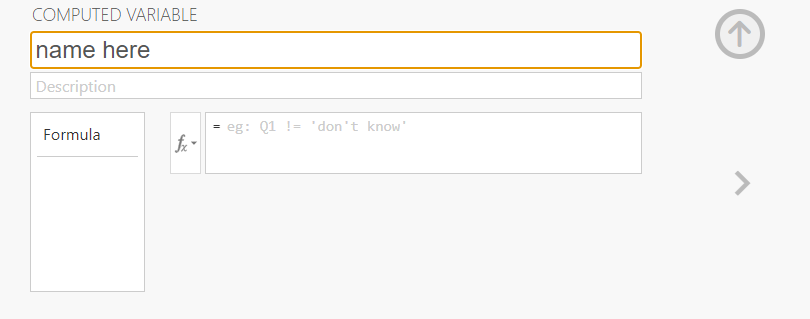
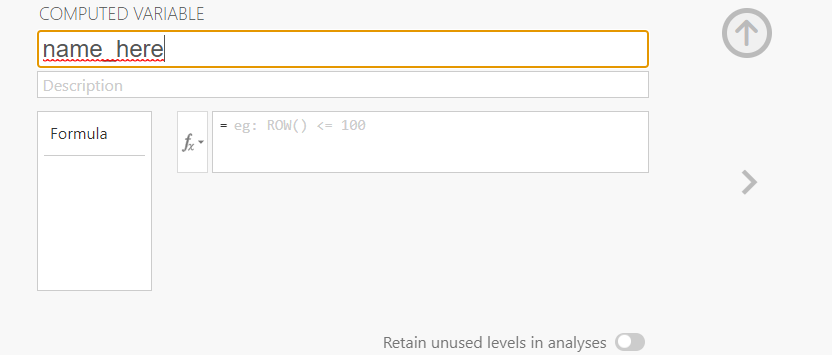
Update Module 6-7 Jamovi screenshots and Self-Check copy.
Wire CI and Compute images into Learn/Self-Check, fix Module 7 recognition image paths, and rewrite vague Module 7 output-interpretation prompts into concrete scenarios.

diff --git a/src/data/softwareLessons_module6_unified.js b/src/data/softwareLessons_module6_unified.js
@@ -1,4 +1,4 @@
-// Module 6: Probability and Sampling — Unified Jamovi lesson
+// Module 6: Probability and Sampling - Unified Jamovi lesson
 // Learn (I do) → Practice + Self-Check (We do) → Apply (You do)
 
 export const module6UnifiedLessons = [
@@ -76,14 +76,14 @@ export const module6UnifiedLessons = [
                     step: 3,
                     title: 'Name the z-score variable',
                     description:
-                      'Name the new variable (e.g. <strong>z_bmi</strong>). Check the <strong>exact casing</strong> of your column — the Tools file uses lowercase <strong>bmi</strong>.',
+                      'Name the new variable (e.g. <strong>z_bmi</strong>). Check the <strong>exact casing</strong> of your column - the Tools file uses lowercase <strong>bmi</strong>.',
                     image: '/images/lessons/jamovi/jamovi-compute-name.png'
                   },
                   {
                     step: 4,
                     title: 'Enter the z formula',
                     description:
-                      'In the formula box type: <strong>(bmi − 25) / 5</strong>. This standardizes each BMI against a fixed reference. Click away or press Enter so the new column fills.',
+                      'In the formula box type: <strong>(bmi − 25) / 5</strong>. This standardizes each BMI against a fixed reference. Click away or press Enter so the new column fills. <strong>Population vs sample:</strong> Here we use a fixed reference (e.g. 25 and 5) for teaching. You can also compute z with the <em>sample</em> mean and SD from Descriptives - same idea, different numbers.',
                     image: '/images/lessons/jamovi/jamovi-compute-formula.png'
                   },
                   {
@@ -93,12 +93,6 @@ export const module6UnifiedLessons = [
                       'A z of <strong>2</strong> means 2 SDs above the reference mean. A negative z means below the reference. Values with |z| &gt; 2 are unusual under the empirical rule for a normal distribution.'
                   }
                 ]
-              },
-              {
-                type: 'callout',
-                style: 'tip',
-                content:
-                  '<strong>Population vs sample:</strong> Here we use a fixed reference (e.g. 25 and 5) for teaching. You can also compute z with the <em>sample</em> mean and SD from Descriptives — same idea, different numbers.'
               }
             ]
           },
@@ -115,7 +109,7 @@ export const module6UnifiedLessons = [
               {
                 type: 'text',
                 content:
-                  'A <strong>confidence interval (CI)</strong> for the mean is a range of plausible values for the population mean. <strong>Dataset:</strong> keep <strong>bmi_and_exercise.csv</strong> open from Tools. In Jamovi you request the CI inside <strong>Descriptives</strong> under Statistics — not as a separate menu.'
+                  'A <strong>confidence interval (CI)</strong> for the mean is a range of plausible values for the population mean. <strong>Dataset:</strong> keep <strong>bmi_and_exercise.csv</strong> open from Tools. In Jamovi you request the CI inside <strong>Descriptives</strong> under Statistics, not as a separate menu.'
               },
               {
                 type: 'definition_list',
@@ -124,7 +118,7 @@ export const module6UnifiedLessons = [
                     term: '95% CI',
                     icon: 'CI',
                     definition:
-                      'The procedure that produces intervals that capture the true mean about 95% of the time across many repeated samples — not “95% probability this one interval contains the mean.”',
+                      'The procedure that produces intervals that capture the true mean about 95% of the time across many repeated samples, not “95% probability this one interval contains the mean.”',
                     color: '#3b82f6'
                   },
                   {
@@ -149,20 +143,21 @@ export const module6UnifiedLessons = [
                     step: 2,
                     title: 'Request the confidence interval',
                     description:
-                      'Open the <strong>Statistics</strong> section in the options panel. Check <strong>Confidence interval</strong> (for the mean). Leave the level at 95%.'
+                      'Open the <strong>Statistics</strong> section in the options panel. Check <strong>Confidence interval for Mean</strong> (leave the level at 95%).',
+                    image: '/images/lessons/jamovi/jamovi-descriptives-ci-statistics.png'
                   },
                   {
                     step: 3,
                     title: 'Read the output',
                     description:
-                      'In the Results panel, find the CI lower and upper bounds next to the mean for <strong>bmi</strong>.',
-                    image: '/images/selfcheck/jamovi/jamovi-results-panel.png'
+                      'In the Results panel, find the <strong>95% CI mean lower bound</strong> and <strong>upper bound</strong> next to the mean for <strong>bmi</strong>.',
+                    image: '/images/lessons/jamovi/jamovi-descriptives-ci-results.png'
                   },
                   {
                     step: 4,
                     title: 'Compare precision',
                     description:
-                      'Note the CI width. Larger samples (or less variability) usually produce a <strong>narrower</strong> CI — more precision, all else equal. You can also run Descriptives on <strong>exercise_per_week</strong> from the same Tools file and compare widths.'
+                      'Note the CI width. Larger samples (or less variability) usually produce a <strong>narrower</strong> CI - more precision, all else equal. You can also run Descriptives on <strong>exercise_per_week</strong> from the same Tools file and compare widths.'
                   }
                 ]
               },
@@ -209,7 +204,7 @@ export const module6UnifiedLessons = [
           {
             instruction:
               'Also run Descriptives + CI on exercise_per_week from the same file. Compare which CI looks wider and why (variability / scale).',
-            hint: 'Wider intervals often go with more spread or different units — discuss precision, not just sample size.',
+            hint: 'Wider intervals often go with more spread or different units - discuss precision, not just sample size.',
             checkpoint: 'You compared two CIs from the same Tools dataset.'
           }
         ]
@@ -232,7 +227,7 @@ export const module6UnifiedLessons = [
           {
             id: 'm6-ci-location',
             question: 'Where do you turn on a confidence interval for the mean?',
-            image: '/images/lessons/jamovi/jamovi-descriptives-menu.png',
+            image: '/images/lessons/jamovi/jamovi-descriptives-ci-full.png',
             options: [
               'Analyses → Regression only',
               'Descriptives → Statistics → Confidence interval',
@@ -250,7 +245,7 @@ export const module6UnifiedLessons = [
               'You typed (BMI − 25) / 5 in Compute, but the spreadsheet column is named bmi (lowercase). The new column is empty or shows an error.',
             errorMessage: 'Unknown variable / empty column',
             options: [
-              'Jamovi is case-sensitive — match the exact column name (bmi vs BMI)',
+              'Jamovi is case-sensitive - match the exact column name (bmi vs BMI)',
               'You must use SPSS syntax in Jamovi',
               'Z-scores only work for N > 30',
               'You need Analyses → ANOVA first'
@@ -270,7 +265,7 @@ export const module6UnifiedLessons = [
               'CIs only appear for categorical variables'
             ],
             correct: 0,
-            explanation: 'The CI is optional — enable it under Statistics in the Descriptives panel.'
+            explanation: 'The CI is optional - enable it under Statistics in the Descriptives panel.'
           }
         ],
         outputInterpretation: [
@@ -278,7 +273,6 @@ export const module6UnifiedLessons = [
             id: 'm6-interpret-z-ci',
             question:
               'In a short answer: (1) What does a z-score of 2 mean for an IQ-style score with mean 100 and SD 15? (2) If a 95% CI for a mean gets narrower when you add more data, what does that say about precision?',
-            image: '/images/selfcheck/jamovi/jamovi-results-panel.png',
             placeholder:
               'e.g. z = 2 means two SDs above the mean (IQ 130); a narrower CI means a more precise estimate of the mean...',
             hint: 'Tie z to “number of SDs from the mean,” and CI width to precision / sample size.',

diff --git a/src/data/softwareLessons_module7_unified.js b/src/data/softwareLessons_module7_unified.js
@@ -247,13 +247,7 @@ export const module7UnifiedLessons = [
             id: 'm7-binomial-panel',
             question:
               'This jamovi panel is open. What analysis is this, and which menu path opens it?',
-            image: '/lessons/hypothesis-testing/jamovi/binomial-setup.png',
-            options: [
-              'One Sample T-Test - Analyses → T-Tests',
-              'Proportion Test (2 Outcomes) / binomial - Analyses → Frequencies → 2 Outcomes',
-              'Chi-square goodness-of-fit - Analyses → ANOVA',
-              'Descriptives - Analyses → Exploration'
-            ],
+            image: '/images/lessons/jamovi/binomial-setup.png',
             correct: 1,
             explanation:
               'The panel title is Proportion Test (2 Outcomes). Open it with Analyses → Frequencies → 2 Outcomes.'
@@ -307,20 +301,37 @@ export const module7UnifiedLessons = [
         ],
         outputInterpretation: [
           {
-            id: 'm7-interpret-decision',
+            id: 'm7-interpret-binomial',
             question:
-              'In a short answer: (1) For gender with Test value 0.5, what does H₀ say? (2) For bmi vs 25, name two numbers besides p you would report. (3) What does "fail to reject H₀" mean (does it prove the null?)?',
+              'Look at this <strong>Proportion Test (2 Outcomes)</strong> setup: <strong>gender</strong> is in the Variable box and Test value is <strong>0.5</strong>. Suppose the Binomial Test results show a sample proportion near 0.52 and <strong>p = 0.48</strong>. At α = .05: (1) State H₀ in plain language. (2) Do you reject or fail to reject H₀? Does that decision prove the population is exactly 50/50? Why or why not?',
+            image: '/images/lessons/jamovi/binomial-setup.png',
             placeholder:
-              'e.g. H₀: proportion = 0.5; report t and mean (or df); fail to reject means insufficient evidence, not proof...',
-            hint: 'Name H₀, reportable statistics, and avoid "accept H₀ as proven."',
+              'e.g. H₀ says the population proportion for a gender level is 0.5. With p = 0.48 I fail to reject; that is not proof the population is exactly 50/50...',
+            hint: 'Compare p to .05. Fail to reject ≠ prove H₀ is true.',
             requiredKeywords: [
-              '0.5', 'proportion', 'h0', 'h₀', 'null',
-              't', 'mean', 'df', 'cohen', 'd', '25', 'bmi',
-              'fail', 'reject', 'evidence', 'not prove', 'does not prove', 'insufficient'
+              '0.5', 'proportion', 'h0', 'h₀', 'null', 'population',
+              'fail', 'reject', '0.48', '.48', 'p = 0.48', 'p=0.48',
+              'prove', 'not prove', 'does not prove', 'evidence', 'insufficient', 'not true'
             ],
             minRequiredKeywords: 4,
             feedback:
-              'H₀ for the binomial example: population proportion = 0.5. For the t-test, report t (and usually df/mean/Cohen\'s d) with p. Fail to reject means insufficient evidence against H₀ - not proof the null is true.'
+              'H₀: the population proportion for a gender level equals 0.5. With p = 0.48 (greater than .05), fail to reject H₀. That means insufficient evidence against H₀ - it does not prove the population is exactly 50/50.'
+          },
+          {
+            id: 'm7-interpret-ttest',
+            question:
+              'Look at this <strong>One Sample T-Test</strong> setup for <strong>bmi</strong> with Test value <strong>25</strong>. Suppose Results show <strong>t = 2.10</strong>, <strong>df = 249</strong>, mean ≈ 29.8, and <strong>p = 0.037</strong>. At α = .05: (1) Do you reject or fail to reject H₀: μ = 25? (2) Name two numbers from this output (besides p) you would report in a write-up.',
+            image: '/images/lessons/jamovi/t-test-setup.png',
+            placeholder:
+              'e.g. Reject H₀ because p = 0.037 < .05. I would report t = 2.10 and df = 249 (or the mean)...',
+            hint: 'Decision uses p vs .05. Typical write-ups include t and df (and often the mean or Cohen\'s d).',
+            requiredKeywords: [
+              'reject', '0.037', '.037', 'p = 0.037', 'p=0.037',
+              't', '2.10', '2.1', 'df', '249', 'mean', '29.8', 'cohen', 'd', '25'
+            ],
+            minRequiredKeywords: 4,
+            feedback:
+              'Reject H₀ (p = 0.037 < .05): there is evidence the mean BMI differs from 25. Report t (e.g. 2.10) and df (249); the sample mean (and Cohen\'s d, if requested) are also useful.'
           }
         ]
       },
